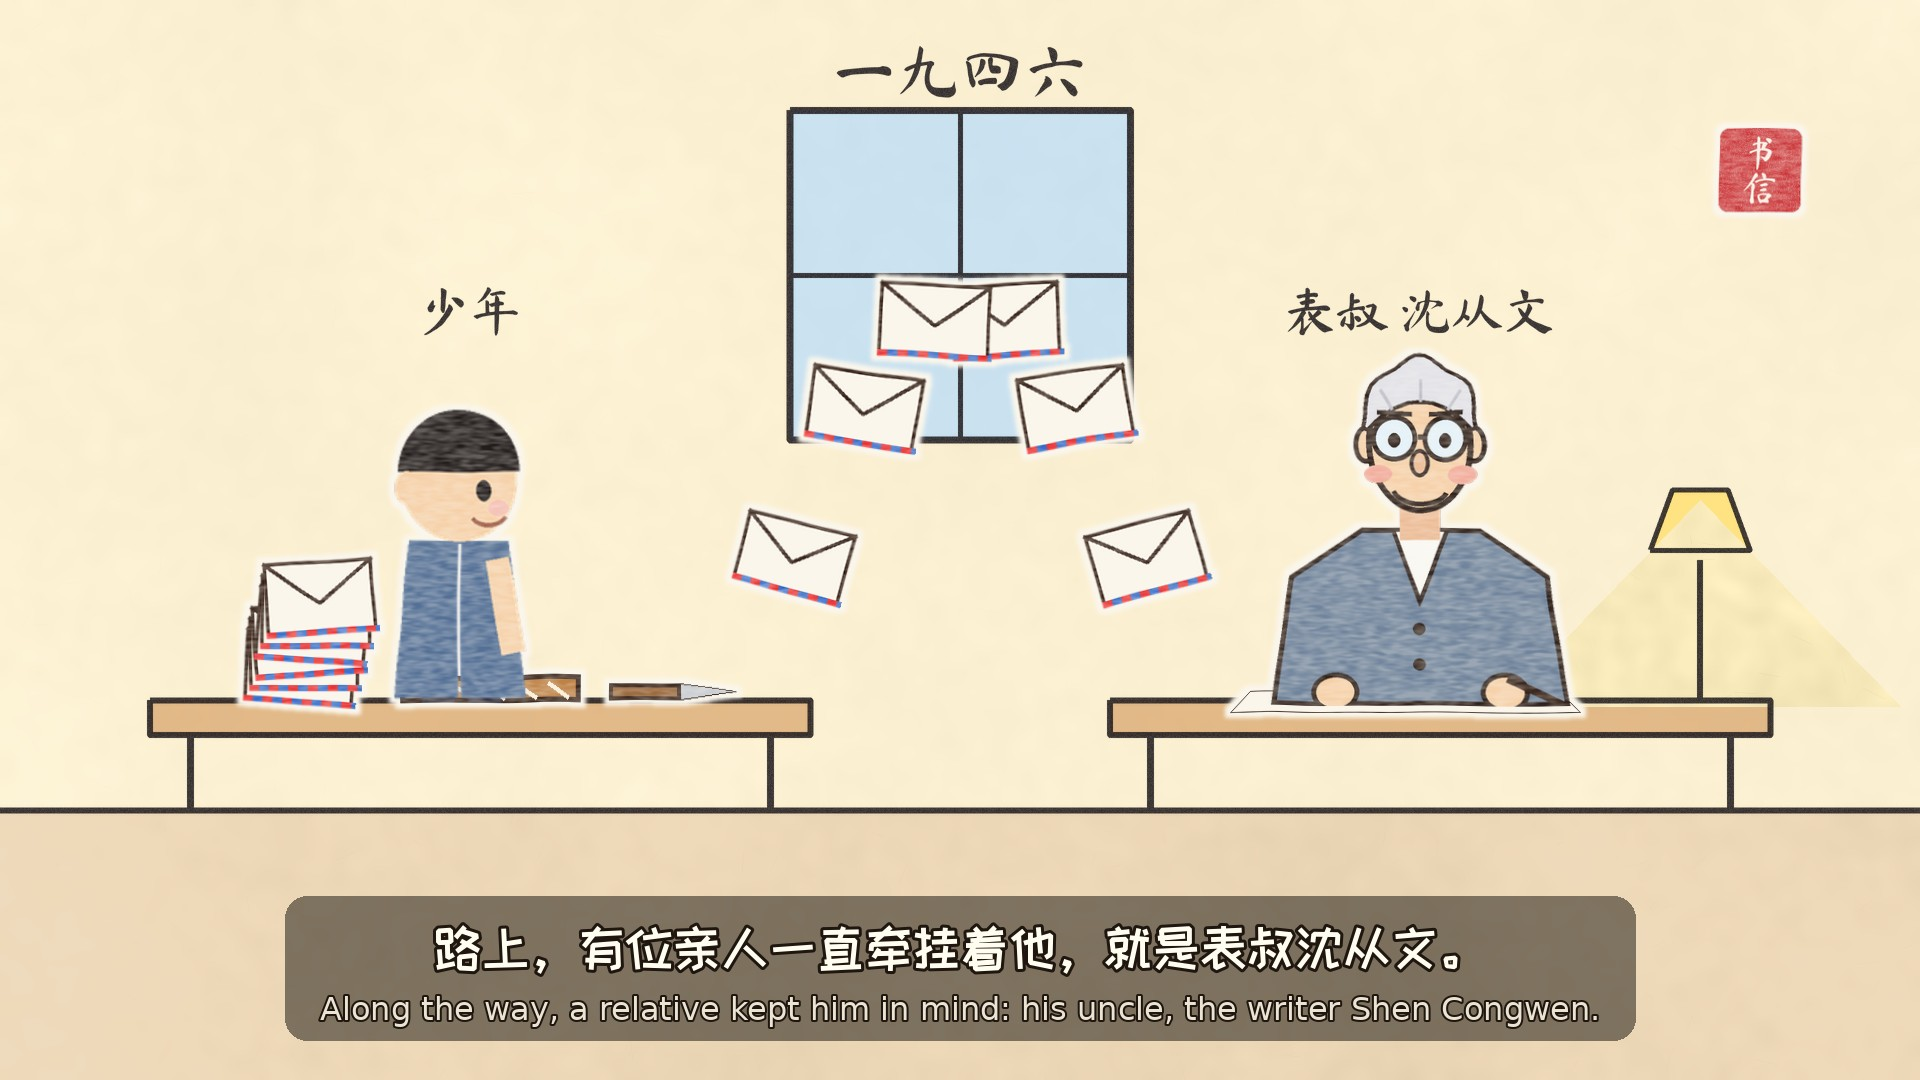
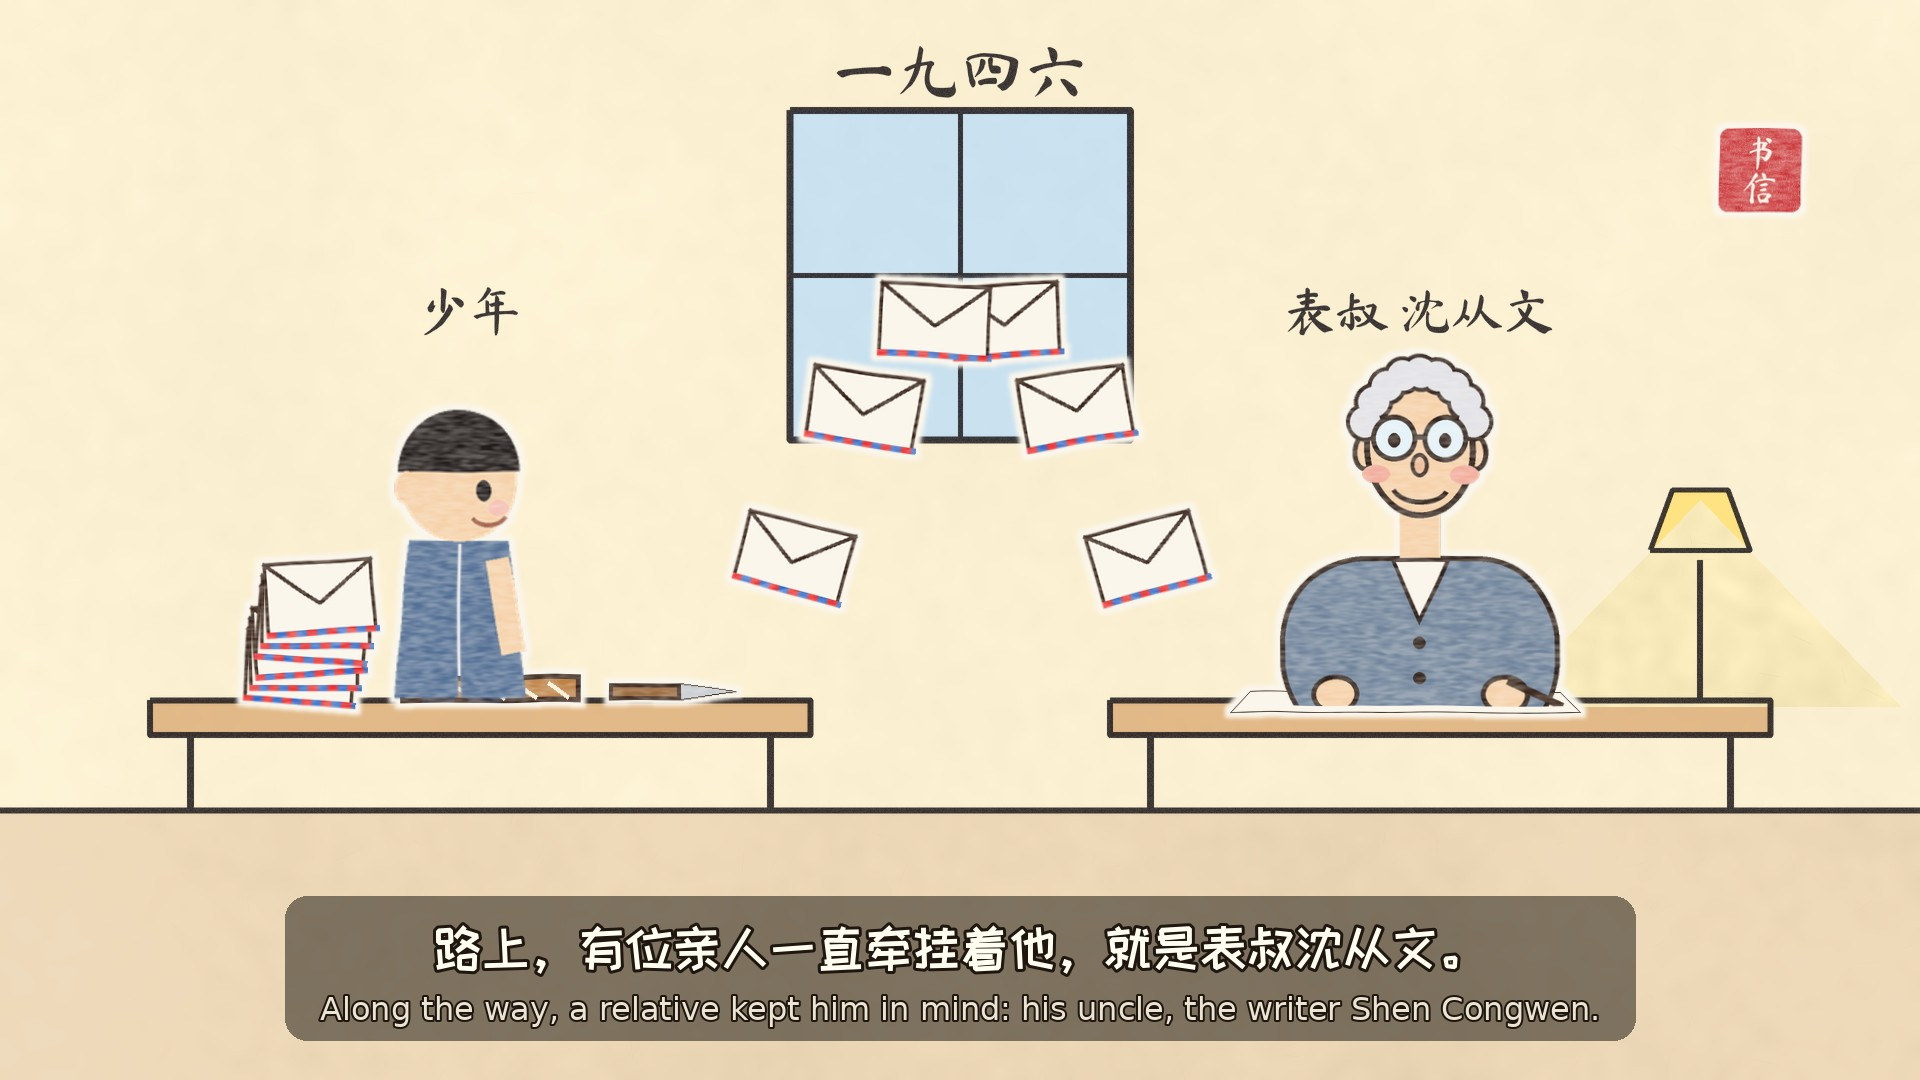
narrated3: 老人改用蜡笔简笔画画法，附三种画法对比
Claude-Session: https://claude.ai/code/session_01Vdfstew82ioBPweYzUPmue

Changed region(s): [[0.6562, 0.3056, 0.8438, 0.6722]]

diff --git a/narrated3/shots.py b/narrated3/shots.py
@@ -273,6 +273,97 @@ def old_man(kind="shen"):
     return R.fin(im)
 
 
+STYLE = "line"      # 老人画法：line 蜡笔简笔画（采用）；None 旧的多边形画法；sil、back 已弃用
+
+
+def old_man_alt(kind="huang", style="line"):
+    """三种新画法（圆润笔触，不用尖角多边形）。line：蜡笔简笔画；sil：黑色木刻剪影 + 奶油色五官；back：背影（不画脸）"""
+    S = R.SS
+    w, h = 360, 400
+    im = Image.new("RGBA", (w * S, h * S), (0, 0, 0, 0))
+    d = ImageDraw.Draw(im)
+    line = (50, 36, 30, 255)
+    cream = (250, 246, 236, 255)
+    shen = kind == "shen"
+    sil = style == "sil"
+    robe = (22, 20, 22, 255) if sil else ((112, 132, 156, 255) if shen else (214, 88, 66, 255))
+    skin = (22, 20, 22, 255) if sil else (246, 208, 168, 255)
+    pink = (242, 172, 156, 255)
+    hairc = (226, 226, 232, 255) if shen else cream
+    fc = cream if sil else line                                     # 五官线条色
+
+    def P(pts):
+        return [(x * S, y * S) for x, y in pts]
+
+    def E(cx, cy, rx, ry, **kw):
+        d.ellipse([(cx - rx) * S, (cy - ry) * S, (cx + rx) * S, (cy + ry) * S], **kw)
+
+    def cloud(pts, r, fill, ow=4):
+        for x, y in pts:
+            E(x, y, r + ow, r + ow, fill=line if not sil else cream)
+        for x, y in pts:
+            E(x, y, r, r, fill=fill)
+
+    def arcpts(cx, cy, rx, ry, a0, a1, n):
+        return [(cx + rx * math.cos(math.radians(a)), cy + ry * math.sin(math.radians(a))) for a in np.linspace(a0, a1, n)]
+    # 身体：圆润的肩
+    d.rounded_rectangle([40 * S, 250 * S, 320 * S, 440 * S], radius=85 * S, fill=robe, outline=line if not sil else None, width=5 * S)
+    cx, cy = 180, 140
+    rx, ry = (56, 72) if shen else (66, 72)
+    if style == "back":
+        d.rectangle([158 * S, 196 * S, 202 * S, 262 * S], fill=skin)
+        E(cx - rx + 2, 146, 13, 19, fill=skin, outline=line, width=5 * S)
+        E(cx + rx - 2, 146, 13, 19, fill=skin, outline=line, width=5 * S)
+        pts = arcpts(cx, cy, rx - 6, ry - 6, 0, 360, 22)
+        cloud(pts + [(cx, cy), (cx - 20, cy - 20), (cx + 20, cy - 20)], 26, hairc if not shen else (226, 226, 232, 255))
+        d.line(P([(180, 262), (180, 420)]), fill=(150, 56, 42, 255) if not shen else (84, 100, 124, 255), width=4 * S)
+        d.line(P([(270, 300), (300, 380)]), fill=robe if not sil else robe, width=44 * S, joint="curve")
+        E(302, 392, 22, 18, fill=skin, outline=line, width=5 * S)
+        d.line(P([(305, 380), (344, 404)]), fill=(60, 40, 30, 255), width=8 * S)
+        return R.fin(im)
+    d.rectangle([160 * S, 196 * S, 200 * S, 262 * S], fill=skin)
+    if not sil:
+        d.polygon(P([(150, 252), (180, 318), (210, 252)]), fill=cream, outline=line, width=4 * S)
+        for by in (336, 372):
+            E(180, by, 6, 6, fill=line)
+    for sx in (-1, 1):
+        E(cx + sx * (rx - 1), 146, 13, 19, fill=skin, outline=line if not sil else None, width=5 * S)
+    E(cx, cy, rx, ry, fill=skin, outline=line if not sil else None, width=6 * S)
+    # 头发 / 胡子：一团团圆形连成的"云"
+    if shen:
+        hp = arcpts(cx, cy + 2, rx + 2, ry + 3, 200, 340, 9)
+        cloud(hp, 15, hairc)
+    else:
+        hp = arcpts(cx, cy, rx + 4, ry + 4, 192, 348, 11)
+        cloud(hp + [(cx - 20, 62), (cx + 18, 58)], 22, hairc)
+        bp = arcpts(cx, cy, rx - 4, ry - 2, 24, 156, 9)
+        cloud(bp + [(cx - 26, 214), (cx + 4, 224), (cx + 28, 212)], 19, hairc)
+        cloud([(cx - 30, 172), (cx - 12, 168), (cx + 12, 168), (cx + 30, 172)], 12, hairc, 3)
+    # 眼镜、眼睛、鼻、嘴
+    for sx in (-1, 1):
+        ex = cx + sx * 26
+        E(ex, 132, 23, 23, fill=(228, 242, 250, 255) if not sil else None, outline=fc, width=5 * S)
+        if shen:
+            E(ex, 134, 6, 7, fill=fc)
+        else:
+            d.arc([(ex - 14) * S, 122 * S, (ex + 14) * S, 148 * S], 200, 340, fill=fc, width=6 * S)
+    d.line(P([(cx - 4, 130), (cx + 4, 130)]), fill=fc, width=5 * S)
+    E(cx, 158, 9, 12, fill=None if sil else (236, 186, 148, 255), outline=fc, width=4 * S)
+    if not sil:
+        for sx in (-1, 1):
+            E(cx + sx * 44, 168, 14, 9, fill=pink)
+    if shen:
+        d.arc([150 * S, 160 * S, 210 * S, 198 * S], 20, 160, fill=fc, width=5 * S)
+    else:
+        E(cx, 198, 24, 16, fill=(130, 40, 44, 255) if not sil else cream, outline=line, width=4 * S)
+        if not sil:
+            E(cx, 206, 14, 7, fill=(226, 104, 110, 255))
+    for hx in (95, 265):
+        E(hx, 388, 24, 20, fill=skin, outline=line if not sil else None, width=5 * S)
+    d.line(P([(268, 374), (322, 400)]), fill=(60, 40, 30, 255) if not sil else cream, width=8 * S)
+    return R.fin(im)
+
+
 def bust(spr, keep=0.66):
     return spr.crop((0, 0, spr.width, int(spr.height * keep)))
 
@@ -389,7 +480,7 @@ def shot4(sub_on=True):
     d.polygon([(1250, 692), (1560, 692), (1580, 712), (1230, 712)], fill=CREAM, outline=(60, 40, 30, 255))
     boy = bust(SD.boy_sprite("color", False), 0.7)
     cl.paste(boy, 470, 700 - boy.height * 1.45 / 2 + 4, 1.45)
-    man = old_man("shen")
+    man = old_man_alt("shen", STYLE) if STYLE else old_man("shen")
     cl.paste(man, 1420, 700 - man.height / 2 + 6, 1.0)
     def envelope(cx, cy, ang, s=1.0):
         e = Image.new("RGBA", (130, 90), (0, 0, 0, 0))
@@ -507,7 +598,7 @@ def shot8(sub_on=True):
     cl = CL()
     d = cl.d
     d.polygon([(620, 712), (900, 704), (920, 724), (600, 732)], fill=CREAM, outline=(60, 40, 30, 255))
-    man = old_man("huang")
+    man = old_man_alt("huang", STYLE) if STYLE else old_man("huang")
     cl.paste(man, 560, 720 - man.height * 1.3 / 2 + 6, 1.3)
     for (x, y, r_) in ((850, 520, 16), (905, 470, 24), (975, 420, 34)):             # 思绪泡泡
         d.ellipse([x - r_, y - r_, x + r_, y + r_], fill=CREAM, outline=(60, 40, 30, 255), width=5)
